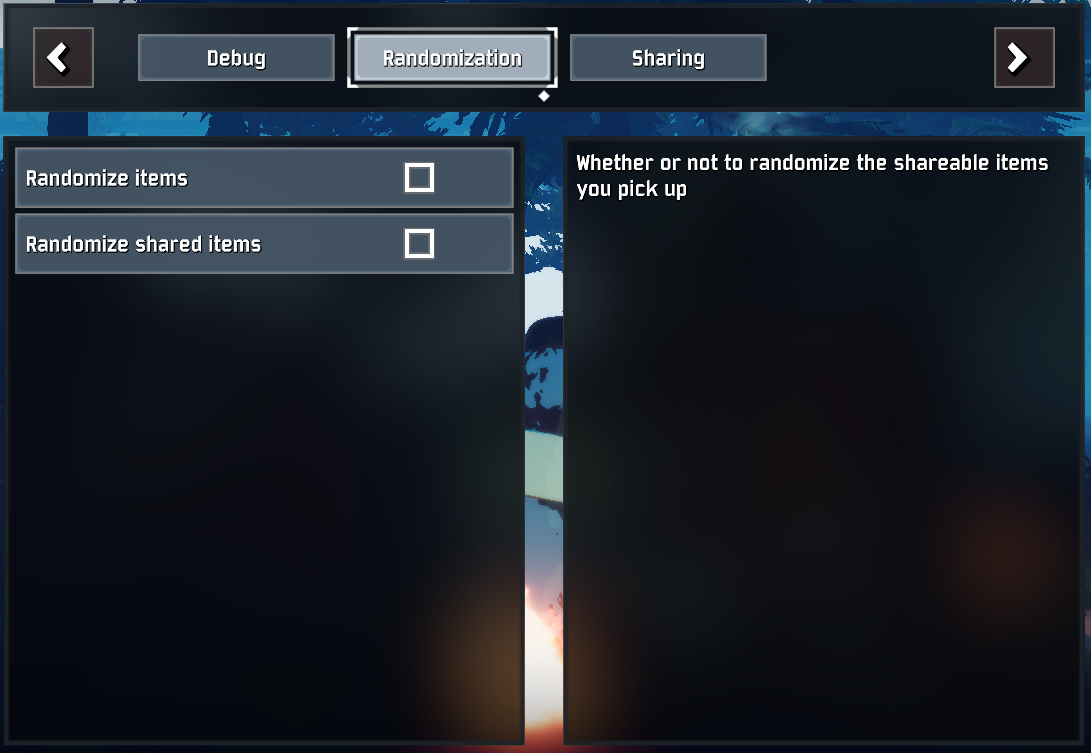
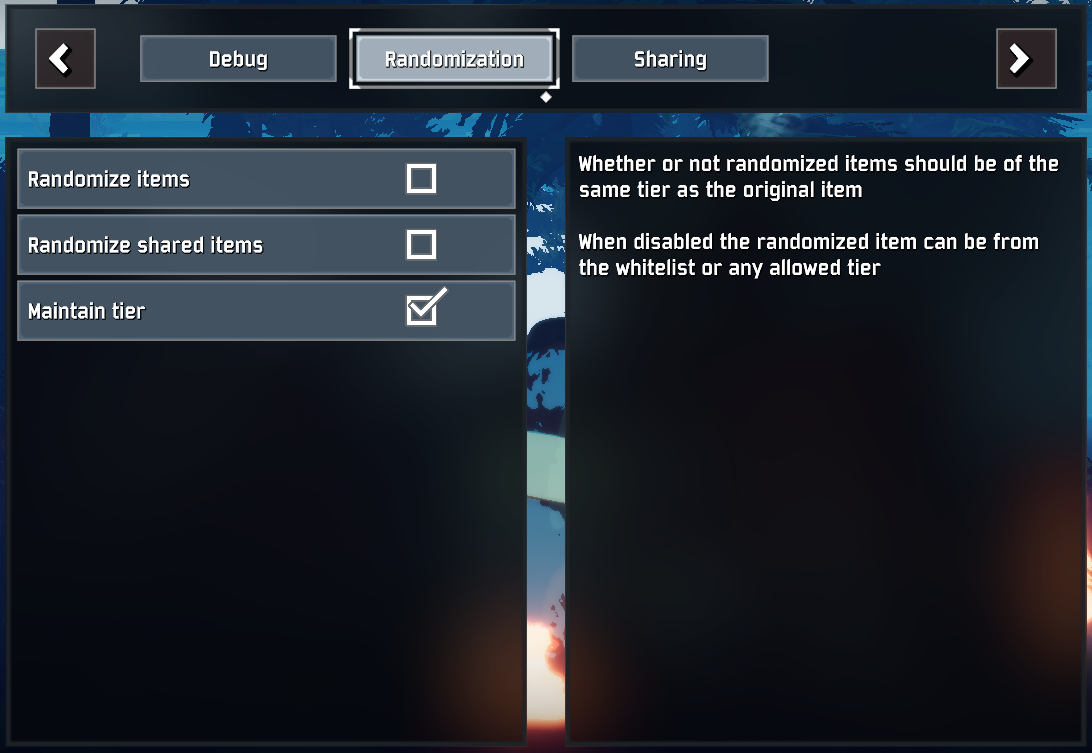
add randomization to different tiers, closes #6 and update README and actually apply lunar coins patch

diff --git a/risk_of_sharing/util/Settings.cs b/risk_of_sharing/util/Settings.cs
@@ -24,7 +24,7 @@ namespace risk_of_sharing
 #pragma warning disable CS8632 // The annotation for nullable reference types should only be used in code within a '#nullable' annotations context.
         public static ConfigEntry<bool>? debugMode;
         public static ConfigEntry<string>? pluginVersion;
-
+        public static ConfigEntry<bool>? randomizeToSameTier;
         public static ConfigEntry<bool>? randomizeSharedItems;
         public static ConfigEntry<bool>? randomizeItems;
         public static ConfigEntry<bool>? shareLunarCoins;
@@ -50,8 +50,9 @@ namespace risk_of_sharing
         {
             Settings.plugin = plugin;
             // [Randomization]
-            randomizeItems = plugin.Config.Bind<bool>(SettingsTabs[SettingsTab.Randomization], "Randomize items", false, "Whether or not to randomize the shareable items you pick up");
-            randomizeSharedItems = plugin.Config.Bind<bool>(SettingsTabs[SettingsTab.Randomization], "Randomize shared items", false, "Whether or not to randomize the shareable items sent to others");
+            randomizeItems = plugin.Config.Bind<bool>(SettingsTabs[SettingsTab.Randomization], "Randomize items", false, "Whether or not to randomize the shareable items you pick up\n\nUpdates immediately");
+            randomizeSharedItems = plugin.Config.Bind<bool>(SettingsTabs[SettingsTab.Randomization], "Randomize shared items", false, "Whether or not to randomize the shareable items sent to others\n\nUpdates immediately");
+            randomizeToSameTier = plugin.Config.Bind<bool>(SettingsTabs[SettingsTab.Randomization], "Maintain tier", true, "Whether or not randomized items should be of the same tier as the original item\n\nWhen disabled the randomized item can be from the whitelist or any allowed tier\n\nUpdates immediately");
 
             // [Sharing]
             itemWhitelist = plugin.Config.Bind<string>(SettingsTabs[SettingsTab.Sharing], "item whitelist", "", "Comma separated list of internal item names to share regardless of tier or blacklist\n\nUpdates when entering a new stage\n\nIMPORTANT: if you're changing this in the .cfg file with the game open, use the Reload button in the settings Debug tab!");
@@ -77,7 +78,7 @@ namespace risk_of_sharing
             };
 
             // [Debug]
-            debugMode = plugin.Config.Bind<bool>(SettingsTabs[SettingsTab.Debug], "Debug mode", false, "Whether or not to print debug messages to the log");
+            debugMode = plugin.Config.Bind<bool>(SettingsTabs[SettingsTab.Debug], "Debug mode", false, "Whether or not to print debug messages to the log\n\nUpdates immediately");
             pluginVersion = plugin.Config.Bind<string>(SettingsTabs[SettingsTab.Debug], "Plugin version", Plugin.pluginVersion, "The current plugin version, used to detect up/downgrades of the plugin to reset base blacklist");
             // detect potential change in version and reset baseItemBlacklist
             if (pluginVersion.Value != Plugin.pluginVersion)
@@ -95,6 +96,7 @@ namespace risk_of_sharing
             ModSettingsManager.AddOption(new GenericButtonOption("Reload settings", SettingsTabs[SettingsTab.Debug], "Reload settings from .cfg file to apply changes without restarting the game.\n\nIf you changed the item white- or blacklist the changes will apply when entering the next stage", "Reload", reloadLists));
             ModSettingsManager.AddOption(new CheckBoxOption(randomizeItems));
             ModSettingsManager.AddOption(new CheckBoxOption(randomizeSharedItems));
+            ModSettingsManager.AddOption(new CheckBoxOption(randomizeToSameTier));
             ModSettingsManager.AddOption(new CheckBoxOption(shareLunarCoins));
             ModSettingsManager.AddOption(new CheckBoxOption(shareVoidItems));
             foreach (KeyValuePair<ItemTier, ConfigEntry<bool>> pair in sharedItemTiersConfig)

diff --git a/risk_of_sharing/util/ItemManager.cs b/risk_of_sharing/util/ItemManager.cs
@@ -52,7 +52,7 @@ namespace risk_of_sharing
         private static ItemIndex GetRandomizedItem(PickupDef pickupDef)
         {
             Random random = new Random();
-            List<ItemIndex> availableItems = ItemArchive.itemsToShare[pickupDef.itemTier];
+            List<ItemIndex> availableItems = Settings.randomizeToSameTier.Value ? ItemArchive.itemsToShare[pickupDef.itemTier] : ItemArchive.allSharedItems;
 
             return availableItems[random.Next(availableItems.Count)];
         }
@@ -63,6 +63,7 @@ namespace risk_of_sharing
     static class ItemArchive
     {
         public static Dictionary<ItemTier, List<ItemIndex>> itemsToShare;
+        public static List<ItemIndex> allSharedItems;
         public static List<ItemIndex> itemWhitelist;
         public static List<ItemIndex> itemBlacklist;
 
@@ -97,6 +98,13 @@ namespace risk_of_sharing
 
                 itemsToShare[itemDef.tier].Add(itemDef.itemIndex);
                 Debug.log("Added item: " + itemDef.name + " to the whitelist");
+            }
+
+            // also (re) initialize allSharedItems
+            allSharedItems = new List<ItemIndex>();
+            foreach (ItemTier tier in itemsToShare.Keys)
+            {
+                allSharedItems.AddRange(ItemArchive.itemsToShare[tier]);
             }
         }
 

diff --git a/risk_of_sharing/Plugin.cs b/risk_of_sharing/Plugin.cs
@@ -33,6 +33,7 @@ public class Plugin : BaseUnityPlugin
         harmonyPatcher.CreateClassProcessor(typeof(StageStartPatch)).Patch();
         harmonyPatcher.CreateClassProcessor(typeof(ScrapperDropTagging)).Patch();
         harmonyPatcher.CreateClassProcessor(typeof(CauldronDropTagging)).Patch();
+        harmonyPatcher.CreateClassProcessor(typeof(LunarCoinPatch)).Patch();
     }
 }
 

diff --git a/README.md b/README.md
@@ -1,20 +1,31 @@
-# risk_of_sharing
+# Risk_of_Sharing
 Risk of Rain 2 mod that shares items to all players
 
+No more worrying about who gets what!
+
+#### Notes:
+- Items are shared to dead players too, so nobody spirals into weakness
+- There currently is no balancing, everyone will be significantly stronger
+
 ## In-game settings
-![sharing settings image](readme-images/debug.png)
+![sharing settings image](https://raw.githubusercontent.com/Mavodeli/risk_of_sharing/refs/heads/main/readme-images/debug.png)
+
 this mod can be configured in-game thanks to [RiskOfOptions](https://thunderstore.io/c/riskofrain2/p/Rune580/Risk_Of_Options/)
 
 ## Randomization
-![randomization settings image](readme-images/randomization.png)
+![randomization settings image](https://raw.githubusercontent.com/Mavodeli/risk_of_sharing/refs/heads/main/readme-images/randomization.png)
+
 You can enable randomization to items of the same tier for both
 - items sent to the other players
 - items you pick up yourself (works in singleplayer too)
 
+You can disable limiting randomization to the same tier, if you want extra craziness
+
 
 ## Item white- & blacklist
-![debug settings image](readme-images/sharing.png)
-You can set your own white- & blacklists. 
+![debug settings image](https://raw.githubusercontent.com/Mavodeli/risk_of_sharing/refs/heads/main/readme-images/sharing.png)
+
+You can set your own white- & blacklists
 - They use the **internal** names of items 
     - the example whitelist of `Bear,HealOnCrit` corresponds to Tougher Times & Harversters Scythe
     - You can find the internal names of items on [the Wiki](https://riskofrain2.wiki.gg/) as "ID"
@@ -23,4 +34,15 @@ You can set your own white- & blacklists.
     - example: if you wish for Rusted Keys to be shared, add their internal name of `TreasureCache` to your item whitelist
 
 
-The base blacklist can be found in the plugins config file.
+The base blacklist can be found in the plugins config file
+
+## Other mods
+### my other mods
+- [Risk of Multiprinting](https://thunderstore.io/c/riskofrain2/p/mavo/Risk_of_Multiprinting/) - let's you print up to 50 items at once at 3D printers
+
+
+### acknowledgements
+- [ShareSuite](https://thunderstore.io/c/riskofrain2/p/FunkFrog-and-Sipondo/ShareSuite/) - serves the same purpose as this mod, don't run both at once. 
+    - puts items directly in your inventory instead, has pickup notifications in chat and has balancing
+    - a major inspiration for this mod, I started work on this mod because ShareSuite didn't work yet after DLC4 released
+    - I hightly recommend checking it out!
